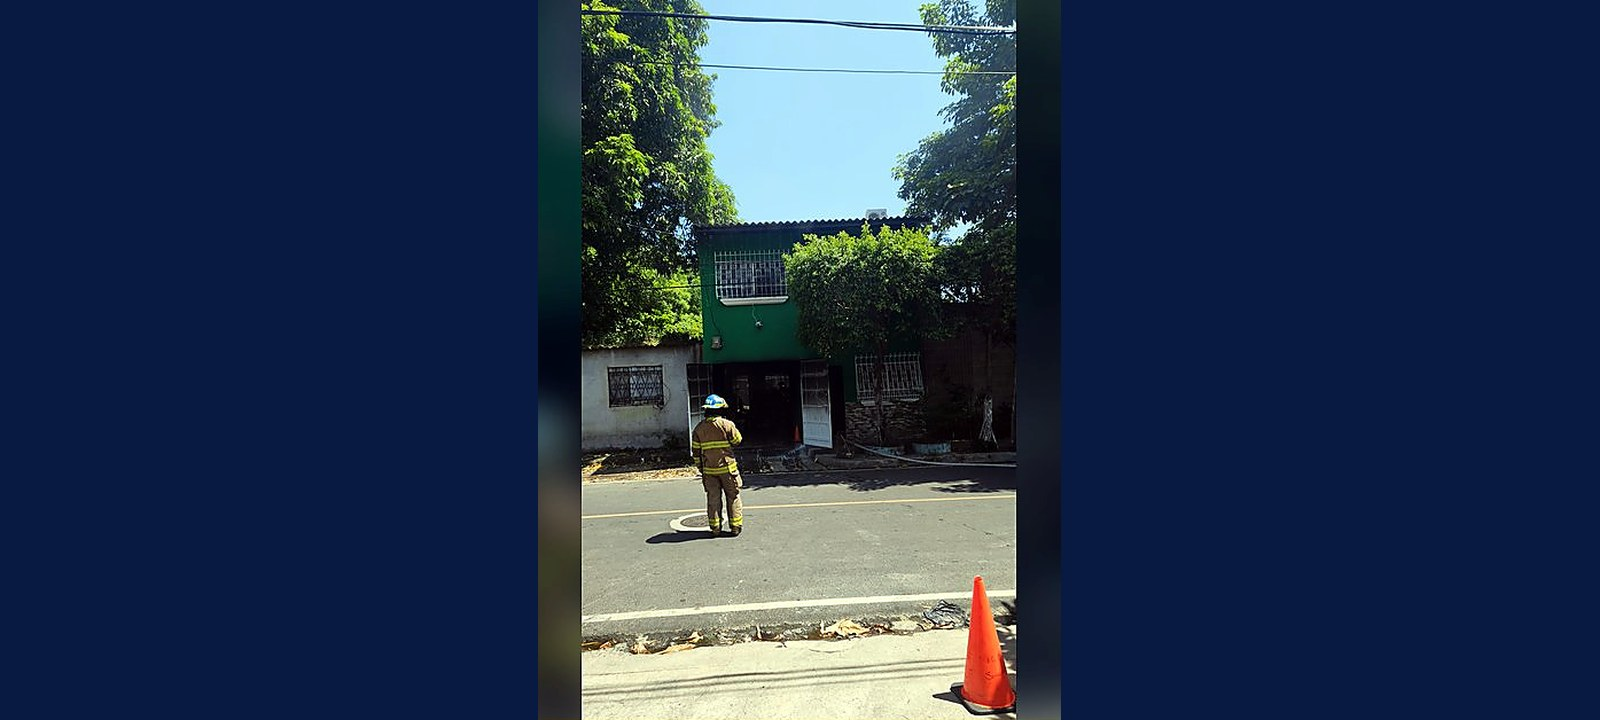
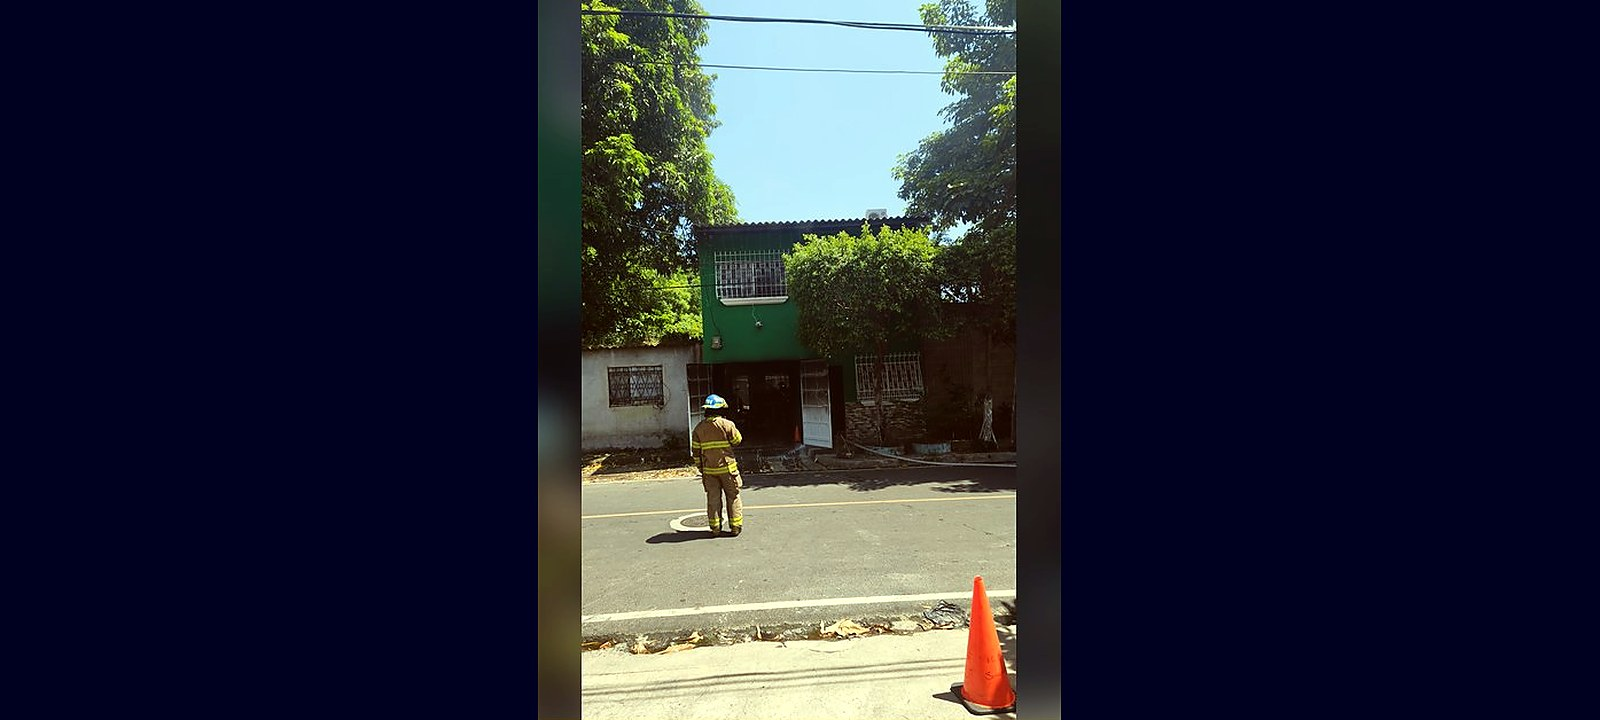
Realza las imágenes del carrusel sin franjas verticales

diff --git a/sw.js b/sw.js
@@ -7,7 +7,7 @@
 // - skipWaiting NO automático: el SW nuevo activa cuando todas las pestañas se cierran
 //   (en un sitio editorial es lo natural — el lector navega de una nota a otra).
 
-const CACHE_VERSION = 'pl-v21';
+const CACHE_VERSION = 'pl-v22';
 const SHELL = [
   '/',
   '/index.html',

diff --git a/GUIA-IMAGENES-CARRUSEL.md b/GUIA-IMAGENES-CARRUSEL.md
@@ -26,3 +26,8 @@ No generar ni reconstruir con IA partes de una fotografía periodística. Si una
 ## Nombres
 
 Las versiones preparadas exclusivamente para portada deben terminar en `-carousel.jpg`, preservando siempre el archivo original.
+
+
+## Criterio de encuadre
+
+Las fotografías horizontales deben llenar el lienzo 20:9. Si la fuente tiene otra proporción, se permite recortar únicamente los bordes con menor valor informativo, preservando rostros, sujetos y contexto. Las fotografías verticales se muestran completas con navy únicamente a los lados; nunca con franjas arriba y abajo.
